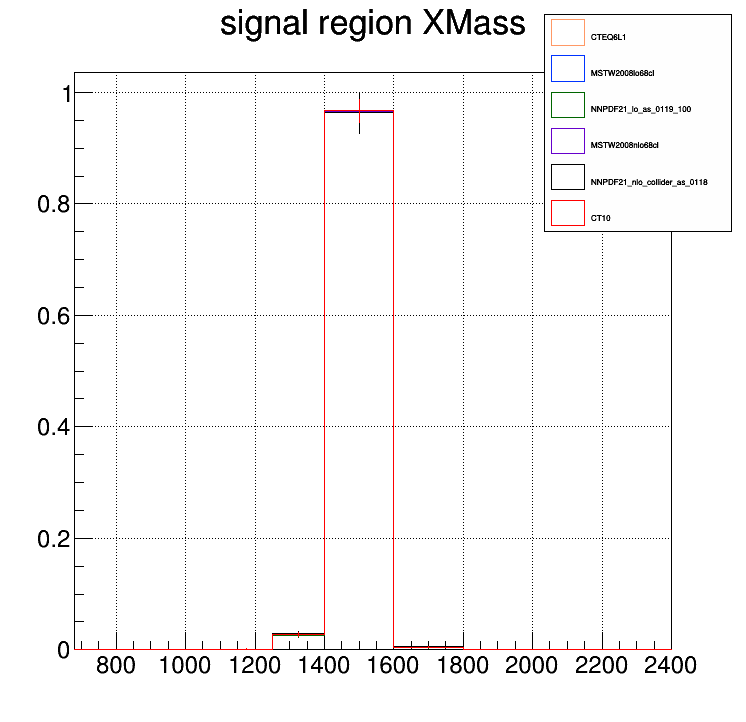
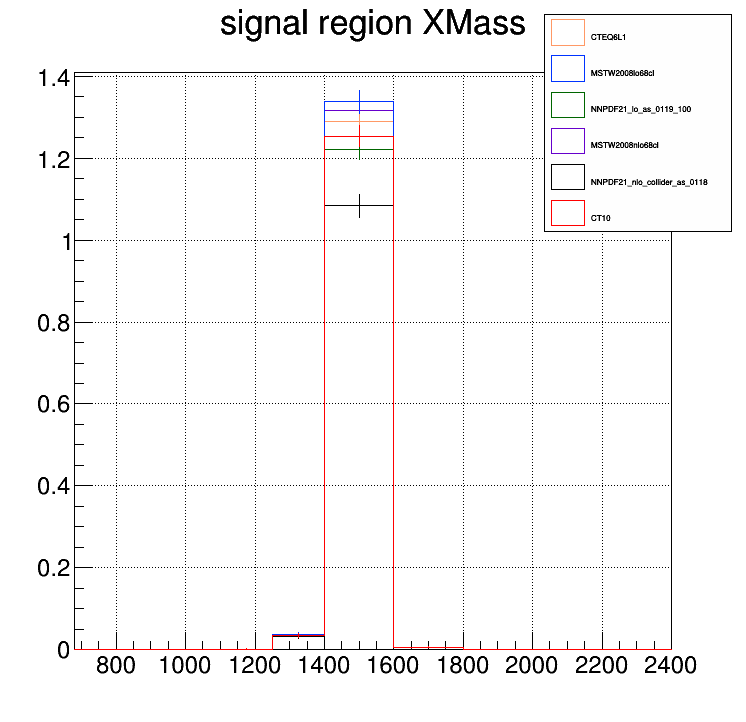
add norm histos and CT10

diff --git a/macro/PDFtest/PDF_error.C b/macro/PDFtest/PDF_error.C
@@ -29,16 +29,18 @@
 
 using namespace std;
 
-void PDF_error(string inputFile){
+void PDF_error(string inputFile, string inputFile2){
 
 
-  TFile *rootfile    = TFile::Open(inputFile.data());
+  TFile *rootfile  = TFile::Open(inputFile.data());
+  TFile *rootfile2 = TFile::Open(inputFile2.data());
 
   TH1D *hzy0   = (TH1D*)(rootfile->Get("h_sigXMassPDF0"));
   TH1D *hzy1   = (TH1D*)(rootfile->Get("h_sigXMassPDF1"));
   TH1D *hzy2   = (TH1D*)(rootfile->Get("h_sigXMassPDF2"));
   TH1D *hzy3   = (TH1D*)(rootfile->Get("h_sigXMassPDF3"));
   TH1D *hzy4   = (TH1D*)(rootfile->Get("h_sigXMassPDF4"));
+  TH1D *hzy5   = (TH1D*)(rootfile2->Get("h_sigXMassPDF2"));
 
 
   Int_t nbinsx = hzy0->GetNbinsX();
@@ -49,24 +51,26 @@ void PDF_error(string inputFile){
   for(int i=0; i<nbinsx; i++){
 
     double center = hzy0->GetBinContent(i+1);
-    Double_t pdf[4];
-    Double_t diff[4];
+    Double_t pdf[5];
+    Double_t diff[5];
     
     pdf[0] = hzy1->GetBinContent(i+1);
     pdf[1] = hzy2->GetBinContent(i+1);
     pdf[2] = hzy3->GetBinContent(i+1);
     pdf[3] = hzy4->GetBinContent(i+1);
+    pdf[4] = hzy5->GetBinContent(i+1);
 
     diff[0] = fabs(pdf[0]-center);
     diff[1] = fabs(pdf[1]-center);
     diff[2] = fabs(pdf[2]-center);
     diff[3] = fabs(pdf[3]-center);
+    diff[4] = fabs(pdf[4]-center);
 
-    std::sort(diff,diff+4);
+    std::sort(diff,diff+5);
 
-    for(int j=0; j<4; j++) cout<<"bin:"<<i+1<<" | center:"<<center<<" | diff:"<<diff[j]<<endl;
+    for(int j=0; j<5; j++) cout<<"bin:"<<i+1<<" | center:"<<center<<" | diff:"<<diff[j]<<endl;
 
-    diff_max[i]=diff[3];
+    diff_max[i]=diff[4];
     cout<<"diff_max:"<<diff_max[i]<<endl;
 
     if(center==0.0) continue;

diff --git a/macro/PDFtest/stackXMassPDFtest.C b/macro/PDFtest/stackXMassPDFtest.C
@@ -29,17 +29,18 @@
 
 using namespace std;
 
-void stackXMassPDFtest(string inputFile, string outputFile){
+void stackXMassPDFtest(string inputFile,string inputFile2, string outputFile){
 
 
-  TFile *rootfile    = TFile::Open(inputFile.data());
+  TFile *rootfile  = TFile::Open(inputFile.data());
+  TFile *rootfile2 = TFile::Open(inputFile2.data());
 
   TH1D *hzy0   = (TH1D*)(rootfile->Get("h_sigXMassPDF0"));
   TH1D *hzy1   = (TH1D*)(rootfile->Get("h_sigXMassPDF1"));
   TH1D *hzy2   = (TH1D*)(rootfile->Get("h_sigXMassPDF2"));
   TH1D *hzy3   = (TH1D*)(rootfile->Get("h_sigXMassPDF3"));
   TH1D *hzy4   = (TH1D*)(rootfile->Get("h_sigXMassPDF4"));
-  TH1D *hzy5   = (TH1D*)(rootfile->Get("h_sigXMassPDF5"));
+  TH1D *hzy5   = (TH1D*)(rootfile2->Get("h_sigXMassPDF2"));
 
 
   gStyle->SetOptStat(0);
@@ -65,10 +66,10 @@ void stackXMassPDFtest(string inputFile, string outputFile){
   hzy4->Scale(1/hzy4->Integral());
   hzy5->Scale(1/hzy5->Integral());
   
-  hzy4->Draw("histe");
+  hzy3->Draw("histe");
   hzy0->Draw("histesame");
   hzy2->Draw("histesame");
-  hzy3->Draw("histesame");
+  hzy4->Draw("histesame");
   hzy1->Draw("histesame");
   hzy5->Draw("histesame");
 
